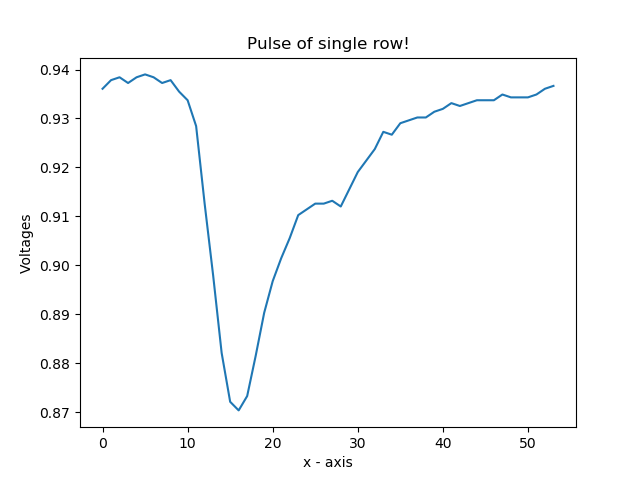
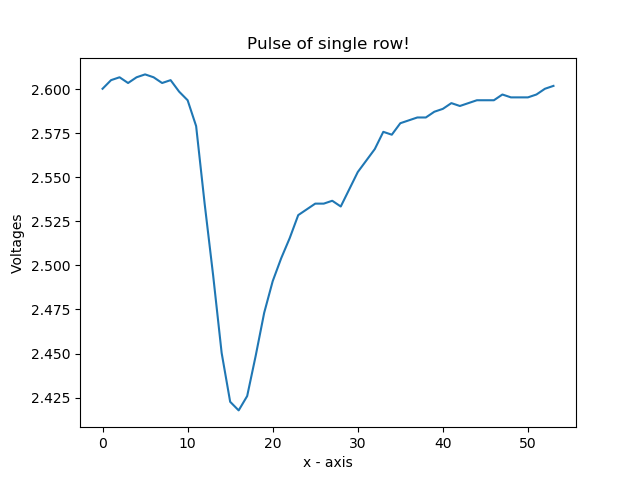
Logical: ErroR:subtracting avrage & changing function name into something meaningful

diff --git a/A1.py b/A1.py
@@ -2,24 +2,27 @@ import matplotlib.pyplot as plt
 ###Assignment1
 import csv
 
+Volt_Con = (2**10-1)*0.6
+BASELINE =10
+
 #question2 converting reading into voltages
-def refactor(rf,rows):
+def convert_to_volt(rf,rows):
   for i in range(len(rows)):
     for j in range(len(rows[i])):
-        rf[i][j]= int(rows[i][j]) / (2**10-1)*0.6
+        rf[i][j]= float(rows[i][j]) / Volt_Con
 
 #Question3 Compute the mean
 def mean(rf,avg):
    for i in range(len(rows)):
-    for j in range(10):
+    for j in range(BASELINE):
       avg[i]=rf[i][j]+avg[i]
-    avg[i]=avg[i]/10
+    avg[i]=avg[i]/BASELINE
 
 #Question3 subtract the mean
 def sub(rf,avg):
   for i in range(len(rows)):
     for j in range(len(rows[i])):
-      rf[i][j]=avg[i]- rf[i][j]
+      rf[i][j]=rf[i][j] - avg[i] 
 
 
 filename = "pulses.csv"
@@ -36,10 +39,14 @@ with open(filename, 'r') as csvfile:
 r=len(rows)
 c=len(rows[0])
 rf = [[0 for i in range(c)] for j in range(r)]
-
+#print("********************Rows****************************************************")
+#print(rows)
+#print("****************************************************************************")
 #Question 2 #Function to convert reading into Volatges
-refactor(rf,rows)
-
+convert_to_volt(rf,rows)
+#print("********************RF******************************************************")
+#print(rf[0][:5])
+#print("****************************************************************************")
 #Question 3 #INitilizing the avg array with zero
 avg=[0 for i in range(r)]
 #Question 3 To plot the x-axis 
@@ -51,7 +58,10 @@ for i in range(c):
 #print(t)
 #t= np.arange(0.,54.,1)
 mean(rf,avg)
-
+#print("***************************Print Average************************************")
+#print(len(avg))
+#print(avg)
+#print("****************************************************************************")
 # naming the x axis 
 plt.xlabel('x - axis') 
 # naming the y axis 
@@ -67,7 +77,7 @@ plt.xlabel('x - axis')
 # naming the y axis 
 plt.ylabel('Voltages') 
 # giving a title to my graph
-plt.title('After Refactoring!') 
+plt.title('Converted_to_Volatges!') 
 plt.plot(t, rf[0])
 plt.savefig("Refactor.png")
 plt.show()
